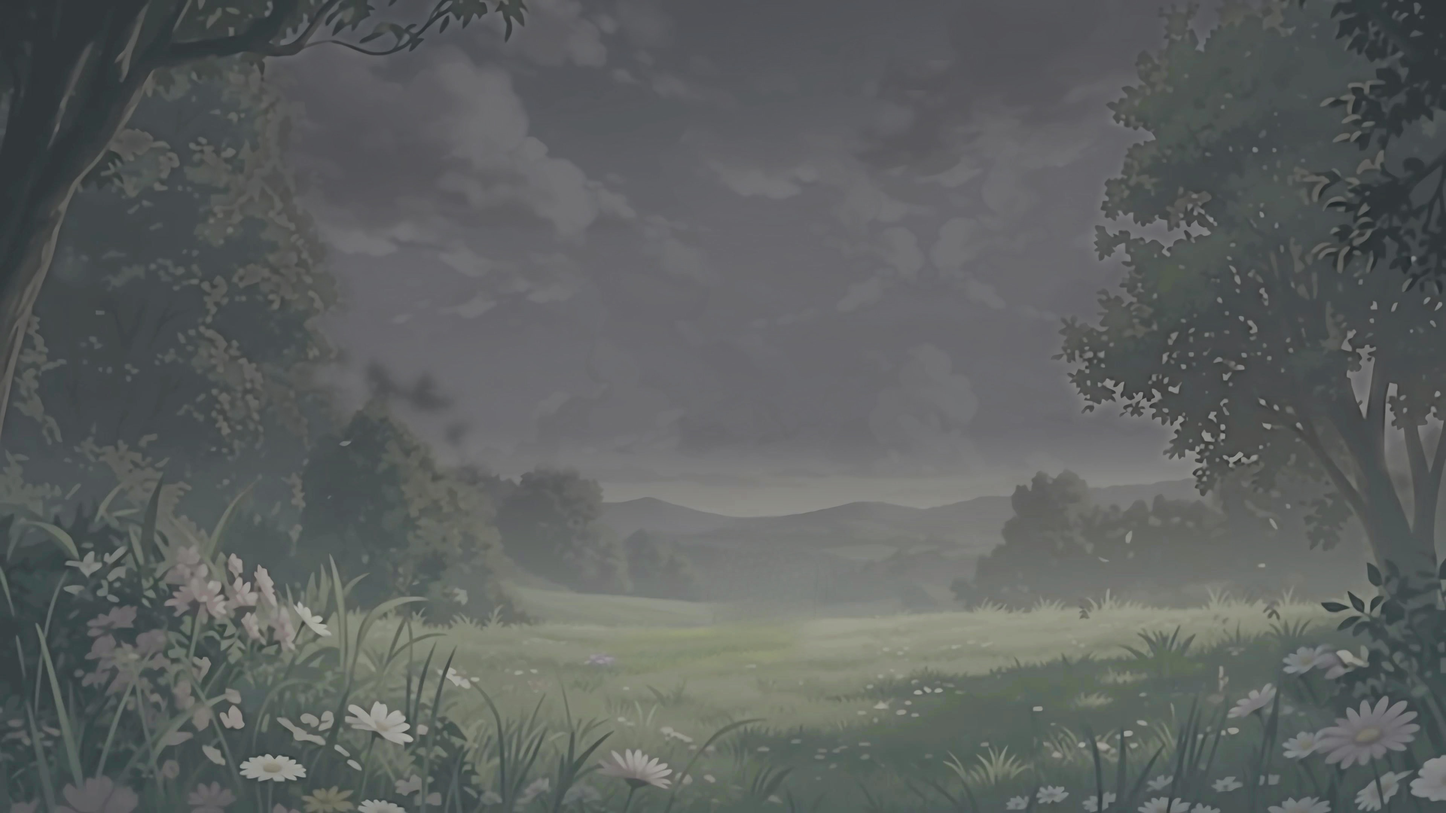
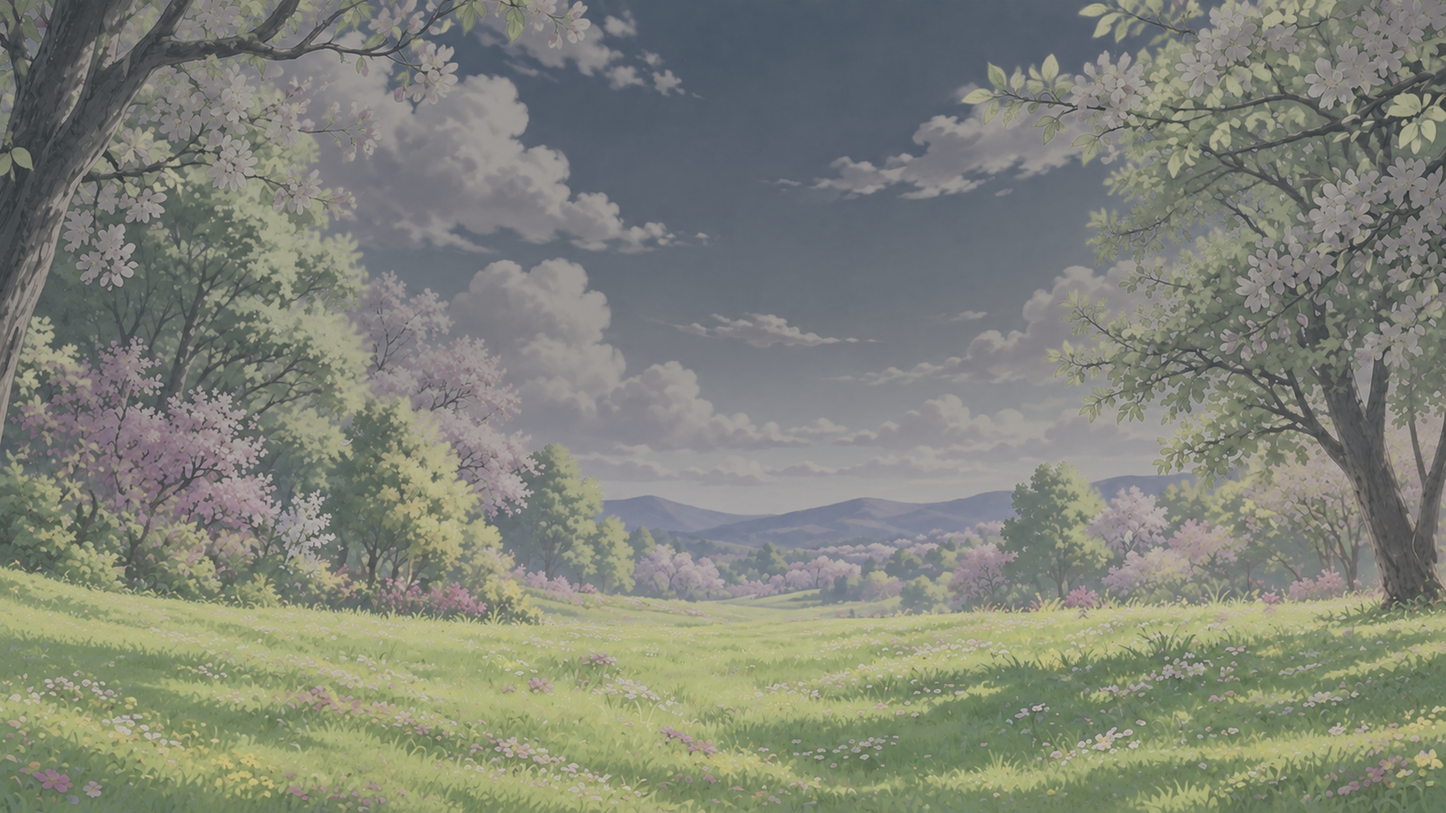
Redraw spring scenes with layered flowers

diff --git a/index.html b/index.html
@@ -662,7 +662,7 @@ window.naeruSettings = { season: "auto", band: "auto", motion: "auto",
   <img id="autumn-leaf" alt="">
 </div>
 
-<!-- 가을의 꽃·앞풀은 처음부터 내루미 앞에 놓인 투명 원화다.
+<!-- 봄·가을의 꽃·앞풀은 처음부터 내루미 앞에 놓인 투명 원화다.
      배경 A/B와 같은 세대로 전환하며, 접근할 때 새로 나타나거나 커지지 않는다. -->
 <div id="foreground" aria-hidden="true">
   <img id="foregroundA" class="foreground-layer" alt="">
@@ -885,7 +885,7 @@ function createSceneMotion(restart, cleanup, ambient) {
 <script>
 (function () {
   var TZ = "Asia/Seoul", WKEY = "naeru-weather";
-  var ASSET_V = "3ead25d0f12b";
+  var ASSET_V = "c1ea73b2fbef";
   var root = document.documentElement;
   root.dataset.av = ASSET_V;
   var params = new URLSearchParams(location.search);
@@ -1194,10 +1194,8 @@ function createSceneMotion(restart, cleanup, ambient) {
         (christmas ? "christmas" : season) + ".webp") : null;
     var frontUrl = christmas
       ? av("foreground-" + variant + "-christmas.webp")
-      : season === "autumn"
-        ? av("foreground-" + variant + "-autumn.webp")
-        : season === "winter"
-          ? av("foreground-" + variant + "-winter.webp") : null;
+      : ["spring", "autumn", "winter"].indexOf(season) >= 0
+        ? av("foreground-" + variant + "-" + season + ".webp") : null;
     var landscapeReady = false, frontReady = false;
     requested = key; stopWatch(); sceneReady(false);
     prepareHD(character);

diff --git a/tools/spring/build.py b/tools/spring/build.py
@@ -1,0 +1,123 @@
+#!/usr/bin/env python3
+"""승인된 봄 낮 원화에서 8개 배경과 공통 투명 전경을 만든다."""
+from pathlib import Path
+
+import cv2
+import numpy as np
+from PIL import Image
+
+
+HERE = Path(__file__).resolve().parent
+REPO = HERE.parent.parent
+SOURCE = HERE / "source"
+IMG = REPO / "img"
+SIZE = (3840, 2160)
+VARIANTS = ["dawn", "day", "dusk", "night",
+            "dawn-rain", "day-rain", "dusk-rain", "night-rain"]
+
+
+def clean_alpha(image):
+    """생성기의 투명 여백에 남은 점을 버리고 앞식물 본체만 보존한다."""
+    rgba = np.asarray(image.convert("RGBA")).copy()
+    alpha = rgba[:, :, 3]
+    count, labels, stats, _ = cv2.connectedComponentsWithStats(
+        (alpha > 16).astype(np.uint8), 8)
+    main = 1 + np.argmax(stats[1:, cv2.CC_STAT_AREA])
+    support = cv2.dilate(
+        (labels == main).astype(np.uint8), np.ones((5, 5), np.uint8))
+    alpha[support == 0] = 0
+    alpha[alpha < 8] = 0
+    maximum = int(alpha.max())
+    if maximum:
+        alpha = np.clip(np.rint(alpha.astype(np.float32) * 255 / maximum),
+                        0, 255).astype(np.uint8)
+    rgba[:, :, 3] = alpha
+    rgba[alpha == 0] = 0
+    return Image.fromarray(rgba)
+
+
+def resize_rgba(image):
+    """반투명 꽃잎·풀잎의 가장자리 색을 오염시키지 않고 확대한다."""
+    return image.convert("RGBa").resize(
+        SIZE, Image.Resampling.LANCZOS).convert("RGBA")
+
+
+def lighting_models():
+    """기존 봄 8종의 동일 좌표에서 낮→시간대 RGB 변환을 구한다."""
+    day = np.asarray(Image.open(
+        SOURCE / "lighting-day.jpg").convert("RGB"), np.float32)[::8, ::8]
+    source = day.reshape(-1, 3) / 255
+    design = np.column_stack((source, np.ones(len(source))))
+    models = {"day": None}
+    for variant in VARIANTS:
+        if variant == "day":
+            continue
+        target = np.asarray(Image.open(
+            SOURCE / f"lighting-{variant}.jpg").convert("RGB"),
+            np.float32)[::8, ::8].reshape(-1, 3) / 255
+        matrix = np.linalg.lstsq(design, target, rcond=None)[0]
+        error = np.mean(np.abs(design @ matrix - target)) * 255
+        models[variant] = matrix
+        print(f"{variant} lighting MAE: {error:.2f}/255")
+    return models
+
+
+def apply_lighting(image, variant, models):
+    """형태와 알파는 유지하고 승인된 기존 장면의 조명만 입힌다."""
+    if variant == "day":
+        return image.copy()
+    rgba = np.asarray(image.convert("RGBA")).copy()
+    source = rgba[:, :, :3].astype(np.float32) / 255
+    matrix = models[variant]
+    graded = np.clip(source @ matrix[:3] + matrix[3], 0, 1)
+
+    if variant.endswith("-rain"):
+        # 기존 비 장면의 회색 하늘은 따르되, 봄 들판까지 잿빛으로 죽이지
+        # 않는다. 아래로 갈수록 같은 시간대의 맑은 조명을 조금 돌려 젖은
+        # 옥빛 새잎과 분홍·노랑·흰 꽃의 고유색을 남긴다.
+        clear_variant = variant.removesuffix("-rain")
+        if clear_variant == "day":
+            clear = source
+        else:
+            clear_matrix = models[clear_variant]
+            clear = np.clip(
+                source @ clear_matrix[:3] + clear_matrix[3], 0, 1)
+        yy = np.linspace(0, 1, rgba.shape[0], dtype=np.float32)[:, None]
+        land = np.clip((yy - .38) / .40, 0, 1)
+        land = land * land * (3 - 2 * land)
+        mix = (.08 + .30 * land)[:, :, None]
+        graded = graded * (1 - mix) + clear * mix
+        if variant != "night-rain":
+            graded = np.power(np.clip(graded, 0, 1), .94)
+
+    rgba[:, :, :3] = np.rint(graded * 255).astype(np.uint8)
+    rgba[rgba[:, :, 3] == 0] = 0
+    return Image.fromarray(rgba)
+
+
+def build():
+    clean = Image.open(SOURCE / "day-clean.png").convert("RGBA")
+    plants = clean_alpha(Image.open(SOURCE / "day-plants.png"))
+    models = lighting_models()
+    expected_alpha = None
+
+    for variant in VARIANTS:
+        background = apply_lighting(clean, variant, models).convert("RGB")
+        background = background.resize(SIZE, Image.Resampling.LANCZOS)
+        output = IMG / f"bg-{variant}-spring.jpg"
+        background.save(output, quality=95, subsampling=0)
+        print(f"{variant}: {output.stat().st_size / 1024:.0f} KiB")
+
+        foreground = resize_rgba(apply_lighting(plants, variant, models))
+        output = IMG / f"foreground-{variant}-spring.webp"
+        foreground.save(output, quality=95, method=6)
+        alpha = np.asarray(Image.open(output).getchannel("A"))
+        if expected_alpha is None:
+            expected_alpha = alpha
+        assert np.array_equal(alpha, expected_alpha), output
+        assert foreground.getchannel("A").crop((0, 0, 3840, 1000)).getbbox() is None
+        print(f"{variant} foreground: {output.stat().st_size / 1024:.0f} KiB")
+
+
+if __name__ == "__main__":
+    build()

diff --git a/tools/check-assets.py b/tools/check-assets.py
@@ -23,8 +23,9 @@ parser.add_argument("--videos", action="store_true", help="두 코덱의 실제 
 args = parser.parse_args()
 
 images = {f"bg-{v}-{s}.jpg": FRAME_SIZE for v in VARIANTS for s in SEASONS}
-images.update({f"foreground-{v}-autumn.webp": FRAME_SIZE for v in VARIANTS})
-images.update({f"foreground-{v}-winter.webp": FRAME_SIZE for v in VARIANTS})
+for season in ["spring", "autumn", "winter"]:
+    images.update({f"foreground-{v}-{season}.webp": FRAME_SIZE
+                   for v in VARIANTS})
 images.update({f"foreground-{v}-christmas.webp": FRAME_SIZE for v in VARIANTS})
 images.update({f"bg-{v}-christmas.jpg": FRAME_SIZE
                for v in VARIANTS if v.endswith("-rain")})
@@ -90,9 +91,14 @@ for name in runtime:
                 # 열린 하늘·중앙 통로에는 전경의 네모판·알파 먼지가 없어야 한다.
                 alpha = im.getchannel("A")
                 assert alpha.crop((0, 0, 3840, 1000)).getbbox() is None, name
-                assert alpha.crop((2150, 0, 2450, 2160)).getbbox() is None, name
-                signature = hashlib.sha256(alpha.tobytes()).digest()
+                # 가을·겨울은 중앙 통로 전체를 비웠다. 봄은 화면 아래의 낮은
+                # 꽃이 발을 가릴 수 있지만 상체와 이동 통로는 열려 있어야 한다.
                 season = name.removesuffix(".webp").rsplit("-", 1)[-1]
+                if season != "spring":
+                    assert alpha.crop((2150, 0, 2450, 2160)).getbbox() is None, name
+                else:
+                    assert alpha.crop((1700, 0, 2600, 1450)).getbbox() is None, name
+                signature = hashlib.sha256(alpha.tobytes()).digest()
                 foreground_alpha.setdefault(season, signature)
                 assert signature == foreground_alpha[season], \
                     f"시간대별 전경 형태 불일치: {name}"

diff --git a/CLAUDE.md b/CLAUDE.md
@@ -37,7 +37,7 @@
 | `index.html` | 화면·설정·날씨·플레이어·동작·집중 타이머 |
 | `_headers`, `_redirects`, `404.html` | Netlify 캐시·검색 제외·경로 차단 |
 | `img/bg-<변형>-<계절>.jpg` | 런타임 배경 32장, 3840×2160 |
-| `img/foreground-<변형>-autumn.webp` | 가을의 투명 꽃·앞풀 8장, 3840×2160 |
+| `img/foreground-<변형>-{spring,autumn,winter}.webp` | 계절별 투명 앞식물 24장, 3840×2160 |
 | `img/*-christmas.*` | 12월 20~31일 겨울 장식 풍경·전경 12장 |
 | `img/landscape-<시간대>-{autumn,winter}.webp` | 맑은 가을·겨울의 풍경 투명 레이어 |
 | `img/sky-<시간대>-{autumn,winter}.{webp,mp4}` | 같은 첫·끝 프레임의 60초 하늘 루프 |
@@ -52,6 +52,7 @@
 | `tools/naeru-split/` | 캐릭터 분리·인코딩·배경 합성 |
 | `tools/naeru-hd/` | 뉴트럴 프레임 8배 복원·투명 경계 정리 |
 | `tools/autumn-naeru/` | 가을 고화질 전신 원화·8종 조명·잔잔한 호흡 영상 재생성 |
+| `tools/spring/` | 봄 원화·들판 꽃·투명 전경·8종 조명 재생성 |
 | `tools/christmas/` | 크리스마스 장식 원화·겨울 8종 조명·레이어 재생성 |
 | `tools/ground/` | 고정 그림자가 없는 잔디 원본·배경 합성 |
 | `tools/foreground/` | 가을 앞풀 제거 원화·전경 원화·시간대 조명 변환 |
@@ -66,7 +67,8 @@
 ## 화면·좌표·움직임
 
 레이어는 배경 정지본/A·B → `#stage`(내루미) → `#autumn-leaf-frame` →
-`#foreground`(가을 앞풀) → 비·눈 → 비네트 → 반딧불이·`#frame`(공·나비) →
+`#foreground`(봄·가을 앞풀과 겨울 눈풀) → 비·눈 → 비네트 →
+반딧불이·`#frame`(공·나비) →
 시계 → 화면 조작 UI 순이다.
 설정은 native `dialog`의 top layer를 사용한다.
 
@@ -90,6 +92,9 @@
   방문 조건과 화질 한계는 [현재 동작 기록](docs/APPROACH-2026-09-15.md)에 있다.
   도착 후 6초 동안 몸을 움츠렸다 펴며 팔·혀를 함께 움직인 뒤 복귀한다.
   전체 DOM을 늘리는 숨쉬기나 저해상도 영상 교체는 사용하지 않는다.
+- 봄 배경은 여린 황록색 새잎, 분홍·아이보리 꽃나무와 봄 안개를 쓰고,
+  진달래·개나리·데이지·흰 들꽃을 전경부터 원경까지 크기와 밀도를 줄여 잇는다.
+  들판 꽃은 배경에 남기고 화면 아래의 큰 꽃·풀만 투명 전경으로 분리한다.
 - 가을 배경 8장에서는 좌우의 가까운 꽃·풀을 지우고 나무·들판을 복원했다.
   새 투명 원화인 `#foreground`는 접근 전후 계속 표시하며, 배경과 같은 cover
   좌표와 흔들림을 공유한다. 내루미의 확대·보폭과 계절 필터는 받지 않는다.

diff --git a/README.md b/README.md
@@ -37,6 +37,8 @@ python3 -m http.server 8000 --bind 127.0.0.1
 평상시와 근접 화면은 같은 고화질 원화를 쓴다.
 겨울은 맑음·비 8개 장면 모두 모자·목도리가 한 그림으로 그려진 전용 내루미를 쓴다.
 봄과 여름도 가을에서 승인한 무장식 고화질 내루미와 같은 정지본·영상을 쓴다.
+봄 원화는 여린 새잎과 꽃나무를 쓰며 진달래·개나리·데이지·흰 들꽃이 전경에서
+들판 원경까지 자연스럽게 이어진다. 가까운 식물만 투명 DOM 전경으로 분리한다.
 방향키·터치 산책에서는 사계절 모두 배경을 확대하지 않는다. 내루미는 Y축으로
 앞으로 걸어오면서 첫 인사와 같은 크기까지 확대되고 4608px 원화로 전환된다.
 매년 12월 20~31일에는 겨울의 하늘·구름·내루미를 유지한 채 나무·설원·앞풀만
@@ -45,7 +47,7 @@ python3 -m http.server 8000 --bind 127.0.0.1
 부드럽게 올리고 기존 전구 주변에만 은은한 호박색 반사광을 더한다.
 `?s=winter&xmas=1`로 날짜와 관계없이 미리 볼 수 있고,
 `xmas=0`은 기본 겨울을 표시한다.
-가을 꽃·풀과 겨울의 눈 덮인 앞풀은 배경에서 지우고 투명 전경으로 따로 그렸다.
+봄·가을 꽃·풀과 겨울의 눈 덮인 앞풀은 배경에서 지우고 투명 전경으로 따로 그렸다.
 전경은 평소부터 같은 자리에 표시되며 내루미의 접근·확대에 따라 움직이지 않는다.
 계절과 시간대의 조명에 맞춰 전경 색을 입혔다.
 사계절 배경의 고정 그림자를 제거하고, 점프해도 지면에 남는 DOM 그림자를 쓴다.
@@ -75,6 +77,9 @@ tools/naeru-split/.venv/bin/python tools/winter-naeru/build.py
 
 # 크리스마스 장식 풍경·앞풀 8종 재생성(겨울 하늘·구름·내루미는 재사용)
 tools/naeru-split/.venv/bin/python tools/christmas/build.py
+
+# 승인된 봄 낮 원화에서 들판·투명 앞식물의 8개 조명 자산 재생성
+tools/naeru-split/.venv/bin/python tools/spring/build.py
 
 # 고화질 무장식 전신 원화에서 가을 8종 정지본·몸짓·근접본 재생성
 tools/naeru-split/.venv/bin/python tools/autumn-naeru/build.py
